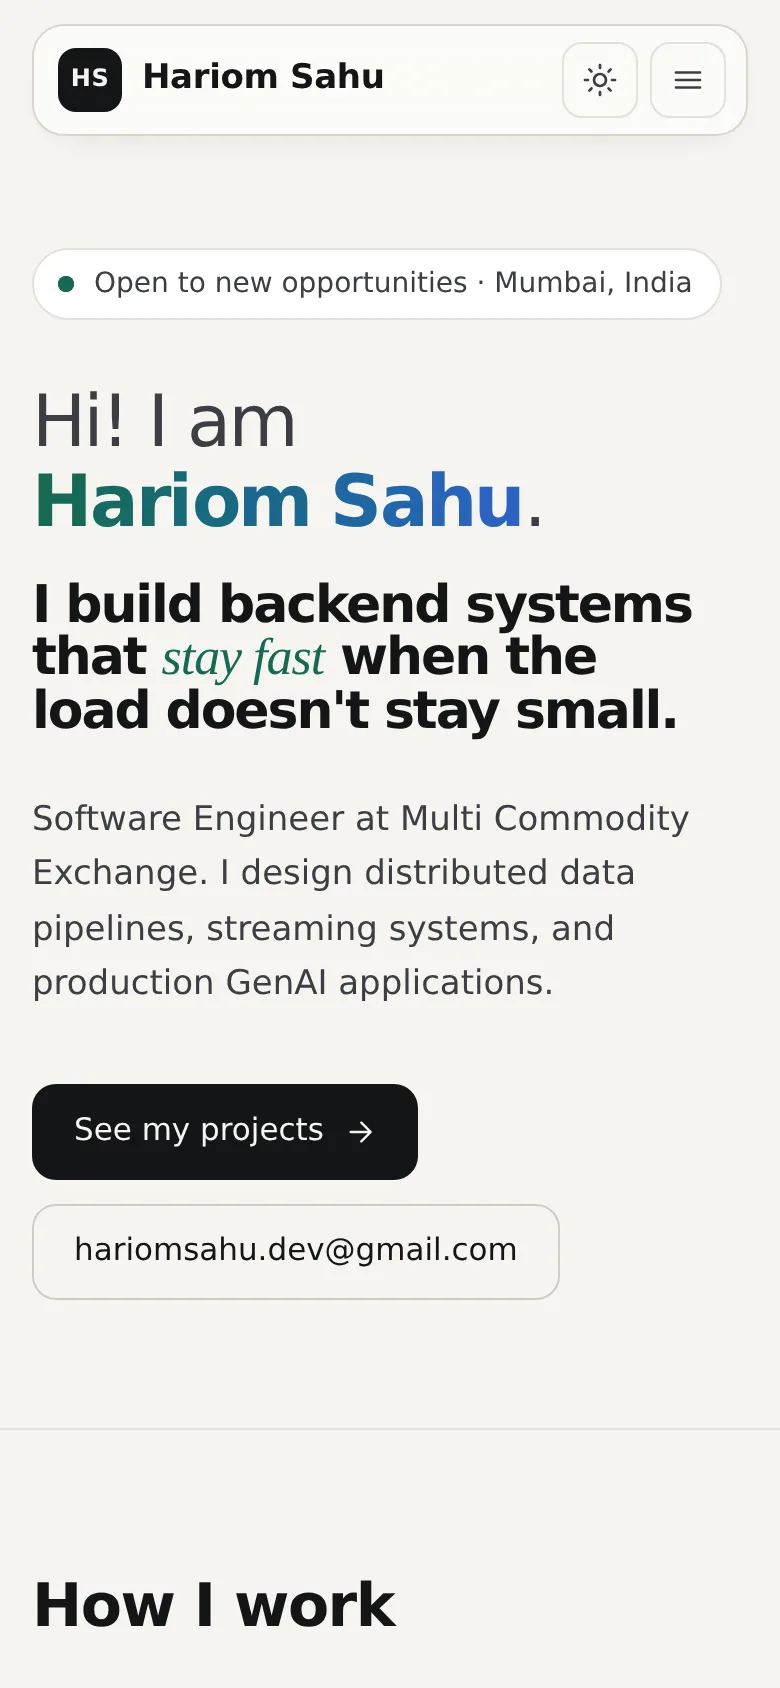
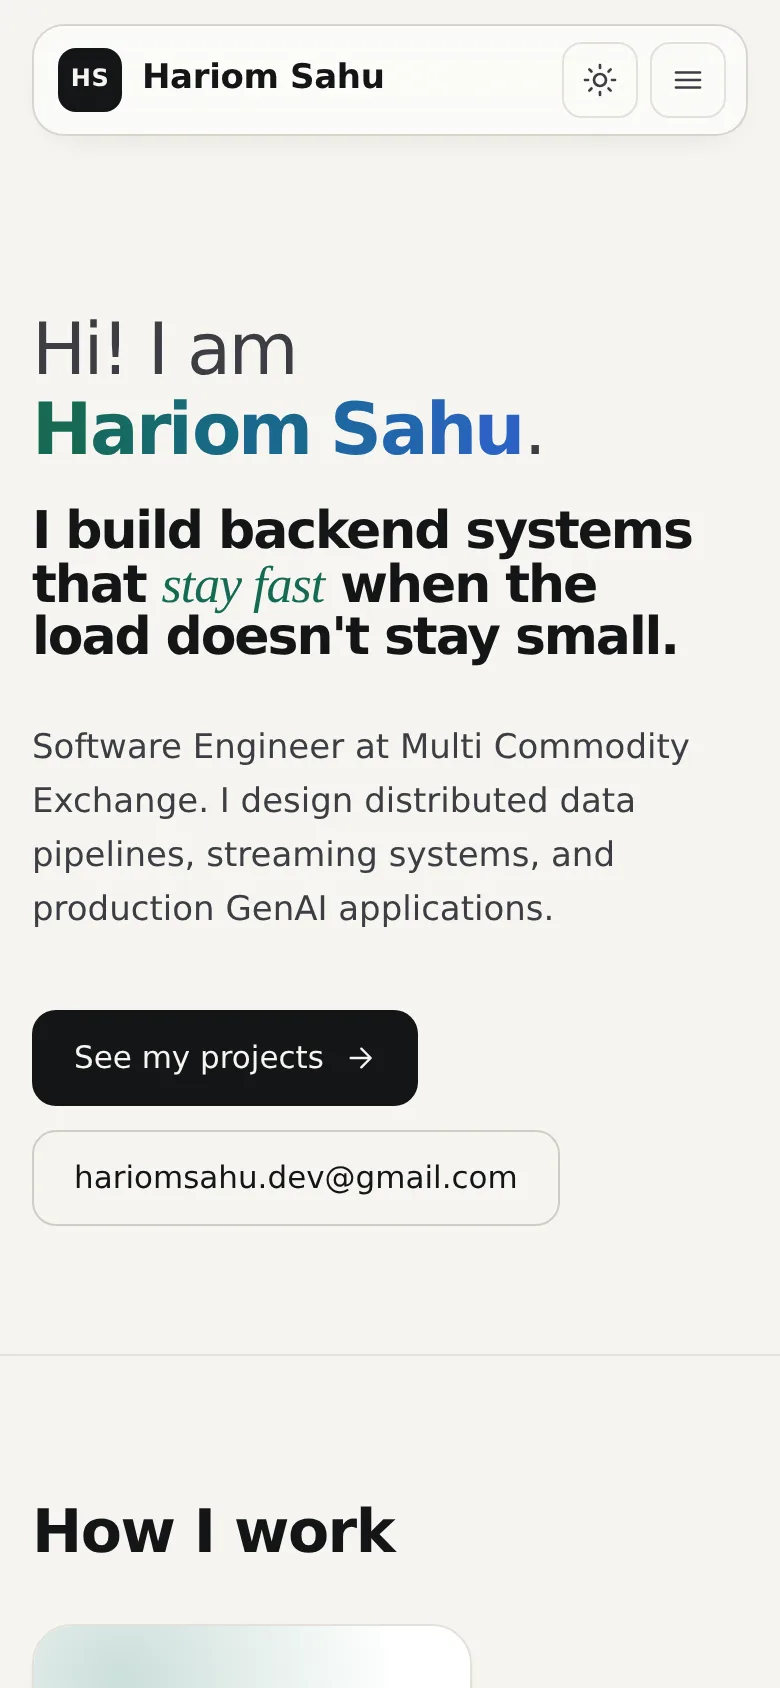
feat: Mumbai map card with live time in contact; remove availability pill

diff --git a/assets/css/styles.css b/assets/css/styles.css
@@ -1620,3 +1620,124 @@ svg { width: 1em; height: 1em; fill: none; stroke: currentColor; stroke-width: 1
 .socials li:last-child .social:hover .social-tip, .socials li:last-child .social:focus-visible .social-tip { transform: translate(0, 0) scale(1); }
 .socials li:last-child .social-tip::after { left: auto; right: 26px; transform: none; }
 .contact { overflow-x: clip; }
+
+/* ---------- Contact: layout with location card ---------- */
+.contact-grid {
+  display: grid;
+  grid-template-columns: minmax(0, 1fr) 360px;
+  gap: 56px;
+  align-items: center;
+}
+@media (max-width: 960px) {
+  .contact-grid { grid-template-columns: minmax(0, 1fr); gap: 48px; }
+  .locate { max-width: 440px; }
+}
+
+.locate {
+  background: var(--surface);
+  border: 1px solid var(--line);
+  border-radius: 22px;
+  overflow: hidden;
+  box-shadow: var(--shadow);
+}
+.js .locate.reveal.is-in { transition: transform 0.5s cubic-bezier(0.3, 1.4, 0.5, 1), box-shadow 0.4s var(--ease), opacity 0.7s var(--ease); }
+.js .locate.reveal.is-in:hover, .locate:hover { transform: translateY(-6px) rotate(-0.8deg); box-shadow: 0 24px 48px -24px rgba(20, 21, 23, 0.35); }
+
+.locate-map {
+  position: relative;
+  display: block;
+  height: 200px;
+  background:
+    repeating-linear-gradient(0deg, transparent 0 19px, var(--line) 19px 20px),
+    repeating-linear-gradient(90deg, transparent 0 19px, var(--line) 19px 20px),
+    var(--bg);
+  overflow: hidden;
+}
+.locate-map iframe {
+  position: absolute;
+  inset: -40px;
+  width: calc(100% + 80px);
+  height: calc(100% + 80px);
+  border: 0;
+  pointer-events: none;
+  filter: saturate(0.75) contrast(1.02);
+  transition: transform 0.8s var(--ease);
+}
+.locate:hover .locate-map iframe { transform: scale(1.06); }
+:root[data-theme="dark"] .locate-map iframe { filter: invert(0.92) hue-rotate(180deg) saturate(0.6) brightness(0.95); }
+@media (prefers-color-scheme: dark) {
+  :root:not([data-theme="light"]) .locate-map iframe { filter: invert(0.92) hue-rotate(180deg) saturate(0.6) brightness(0.95); }
+}
+/* soft vignette so the pin pops */
+.locate-map::after {
+  content: "";
+  position: absolute;
+  inset: 0;
+  background: radial-gradient(60% 60% at 50% 50%, transparent 55%, color-mix(in srgb, var(--surface) 55%, transparent));
+  pointer-events: none;
+}
+
+.locate-pin {
+  position: absolute;
+  left: 50%;
+  top: 50%;
+  z-index: 2;
+  width: 30px;
+  height: 40px;
+  transform: translate(-50%, -100%);
+  animation: pin-drop 0.9s cubic-bezier(0.3, 1.6, 0.5, 1) both, pin-bob 2.6s 1s ease-in-out infinite;
+}
+.locate-pin svg { position: relative; width: 100%; height: 100%; filter: drop-shadow(0 6px 6px rgba(0, 0, 0, 0.3)); }
+.locate-pin path { fill: #ea4335; }
+.locate-pin circle { fill: #fff; }
+.pin-pulse {
+  position: absolute;
+  left: 50%;
+  bottom: -6px;
+  width: 16px;
+  height: 7px;
+  margin-left: -8px;
+  border-radius: 50%;
+  background: color-mix(in srgb, #ea4335 55%, transparent);
+  animation: pin-ring 2s ease-out infinite;
+}
+.pin-pulse-2 { animation-delay: 1s; }
+@keyframes pin-drop { from { opacity: 0; transform: translate(-50%, -260%); } }
+@keyframes pin-bob { 50% { transform: translate(-50%, -112%); } }
+@keyframes pin-ring { from { transform: scale(1); opacity: 0.9; } to { transform: scale(5); opacity: 0; } }
+
+.locate-open {
+  position: absolute;
+  right: 12px;
+  bottom: 12px;
+  z-index: 2;
+  padding: 6px 10px;
+  font-size: 12px;
+  font-weight: 600;
+  color: var(--ink);
+  background: color-mix(in srgb, var(--surface) 88%, transparent);
+  backdrop-filter: blur(6px);
+  -webkit-backdrop-filter: blur(6px);
+  border: 1px solid var(--line);
+  border-radius: 999px;
+  opacity: 0;
+  transform: translateY(6px);
+  transition: opacity 0.25s var(--ease), transform 0.25s var(--ease);
+}
+.locate-map:hover .locate-open, .locate-map:focus-visible .locate-open { opacity: 1; transform: none; }
+
+.locate-body { padding: 22px 24px 24px; }
+.locate-kicker { font-size: 13px; font-weight: 600; color: var(--accent); }
+.locate-body h3 { margin-top: 6px; font-size: 24px; letter-spacing: -0.03em; }
+.locate-copy { margin-top: 10px; font-size: 15px; line-height: 1.6; color: var(--ink-2); }
+.locate-facts {
+  display: grid;
+  grid-template-columns: repeat(2, minmax(0, 1fr));
+  gap: 12px 16px;
+  margin: 18px 0 0;
+  padding-top: 16px;
+  border-top: 1px dashed var(--line-strong);
+}
+.locate-facts div:last-child { grid-column: 1 / -1; }
+.locate-facts dt { font-family: var(--font-mono); font-size: 11px; letter-spacing: 0.04em; color: var(--muted); }
+.locate-facts dd { margin: 3px 0 0; font-size: 14.5px; font-weight: 600; color: var(--ink); font-variant-numeric: tabular-nums; }

diff --git a/index.html b/index.html
@@ -49,7 +49,6 @@
     <!-- Hero -->
     <section class="hero">
       <div class="container">
-        <p class="status reveal"><span class="dot" aria-hidden="true"></span>Open to new opportunities · Mumbai, India</p>
         <p class="hero-hello reveal">Hi! I am <strong class="name" id="hero-name">Hariom Sahu</strong>.</p>
         <h1 class="hero-title reveal">I build backend systems that <em>stay fast</em> when the load doesn't stay small.</h1>
         <p class="hero-lede reveal">
@@ -263,7 +262,8 @@
 
     <!-- Contact -->
     <section class="section contact" id="contact" aria-labelledby="contact-title">
-      <div class="container">
+      <div class="container contact-grid">
+        <div class="contact-main">
         <h2 class="contact-title reveal" id="contact-title">Have a system that needs to be <em>faster</em> or <em>sturdier</em>? Let's talk.</h2>
         <div class="contact-row reveal">
           <a class="contact-email" href="mailto:hariomsahu.dev@gmail.com">hariomsahu.dev@gmail.com</a>
@@ -291,6 +291,29 @@
             <span class="social-tip" aria-hidden="true"><strong>Email</strong>hariomsahu.dev@gmail.com</span>
           </a></li>
         </ul>
+        </div>
+
+        <!-- Where to find me: live OpenStreetMap of Mumbai with a pulsing pin -->
+        <aside class="locate reveal" aria-labelledby="locate-title">
+          <a class="locate-map" href="https://www.google.com/maps/place/Mumbai,+Maharashtra" target="_blank" rel="noopener" aria-label="Open Mumbai in Google Maps">
+            <iframe title="Map of Mumbai" src="https://www.openstreetmap.org/export/embed.html?bbox=72.70%2C18.88%2C73.06%2C19.28&amp;layer=mapnik" loading="lazy" tabindex="-1" referrerpolicy="no-referrer"></iframe>
+            <span class="locate-pin" aria-hidden="true">
+              <span class="pin-pulse"></span><span class="pin-pulse pin-pulse-2"></span>
+              <svg viewBox="0 0 24 32"><path d="M12 0C5.4 0 0 5.3 0 11.9 0 20.8 12 32 12 32s12-11.2 12-20.1C24 5.3 18.6 0 12 0z"/><circle cx="12" cy="12" r="4.6"/></svg>
+            </span>
+            <span class="locate-open">Open in Maps ↗</span>
+          </a>
+          <div class="locate-body">
+            <p class="locate-kicker">📍 Where to find me</p>
+            <h3 id="locate-title">Mumbai, India</h3>
+            <p class="locate-copy">Somewhere between a Kafka topic and a cutting chai. If I'm not at my desk, I'm on a local train mentally re-indexing a database.</p>
+            <dl class="locate-facts">
+              <div><dt>Local time</dt><dd id="mumbai-time">--:--</dd></div>
+              <div><dt>Status</dt><dd id="mumbai-status">Probably coding</dd></div>
+              <div><dt>Coordinates</dt><dd>19.07° N, 72.87° E</dd></div>
+            </dl>
+          </div>
+        </aside>
       </div>
     </section>
   </main>

diff --git a/assets/js/site.js b/assets/js/site.js
@@ -469,6 +469,28 @@
   }
 
   /* ------------------------------------------------------------------ *
+   * Contact card: live Mumbai time + a (probably accurate) status
+   * ------------------------------------------------------------------ */
+  var mumbaiTime = $("#mumbai-time"), mumbaiStatus = $("#mumbai-status");
+  if (mumbaiTime) {
+    var tf = new Intl.DateTimeFormat("en-IN", { timeZone: "Asia/Kolkata", hour: "numeric", minute: "2-digit", hour12: true });
+    var hf = new Intl.DateTimeFormat("en-GB", { timeZone: "Asia/Kolkata", hour: "2-digit", hour12: false });
+    var tick = function () {
+      var now = new Date();
+      mumbaiTime.textContent = tf.format(now).toUpperCase() + " IST";
+      var h = parseInt(hf.format(now), 10) % 24;
+      mumbaiStatus.textContent =
+        h >= 2 && h < 7   ? "Asleep. Probably. 😴" :
+        h >= 7 && h < 10  ? "Sipping cutting chai ☕" :
+        h >= 10 && h < 19 ? "Shipping code 🚀" :
+        h >= 19 && h < 23 ? "Debugging something 🐛" :
+                            "Still debugging 🌙";
+    };
+    tick();
+    setInterval(tick, 30000);
+  }
+
+  /* ------------------------------------------------------------------ *
    * Cursor trail: fire sparks that leave long, thin, curving threads
    * Desktop only (fine pointer); off when reduced motion is requested.
    * ------------------------------------------------------------------ */

diff --git a/README.md b/README.md
@@ -58,7 +58,7 @@ The site has three pages: **Home**, **Projects** and **Blog**. The header on eve
 
 [Open ↗](https://harry9321.github.io/New_Portfolio/)
 
-The first screen opens with **"Hi! I am Hariom Sahu."** (hover over the name and the letters wave), says what I do in one line, shows my availability, and gives two actions: **See my projects** and email me. The menu bar floats centred at the top of every page, and on desktop your cursor throws off sparkling fire sparks that leave long, curving threads.
+The first screen opens with **"Hi! I am Hariom Sahu."** (hover over the name and the letters wave), says what I do in one line and gives two actions: **See my projects** and email me. The menu bar floats centred at the top of every page, and on desktop your cursor throws off sparkling fire sparks that leave long, curving threads.
 
 ### 2. About: how I work
 
@@ -129,6 +129,8 @@ Write-ups on distributed pipelines, performance work and shipping GenAI in produ
 ![Contact section](docs/screenshots/contact.webp)
 
 My email (with a one-click **Copy** button), then full-colour app-style tiles for **GitHub, LinkedIn, X (Twitter), phone and Gmail**. Hovering over a tile makes it lift, tilt and glow in its brand colour with a shine sweep, shows a label with the handle or number, and the tile pulls gently toward your cursor.
+
+Next to it, a **"Where to find me"** card shows a live map of Mumbai with a bouncing pin, my local time, and a (probably accurate) status that changes through the day: from *sipping cutting chai* in the morning to *still debugging* late at night.
 
 ### Dark mode and mobile
 
